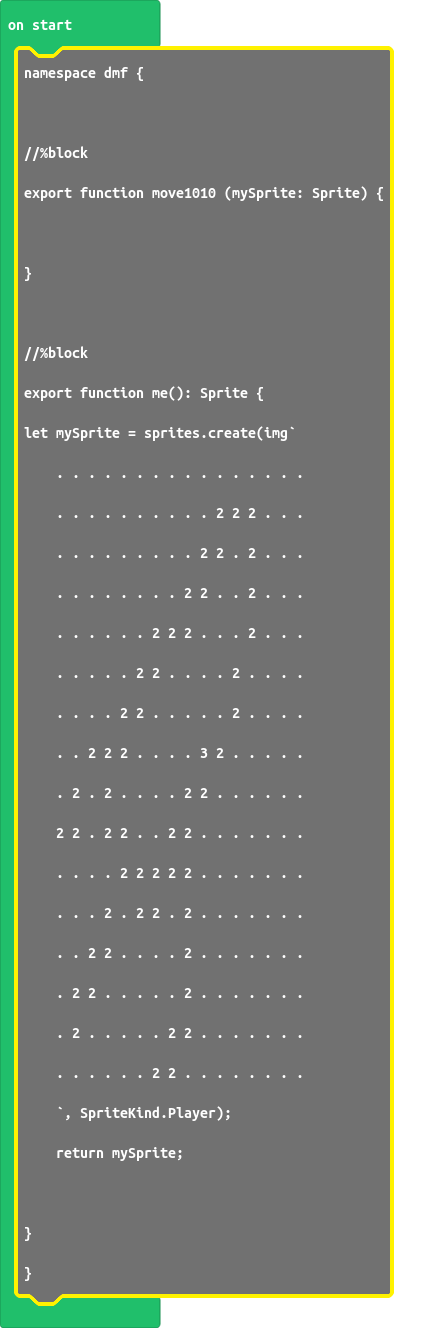
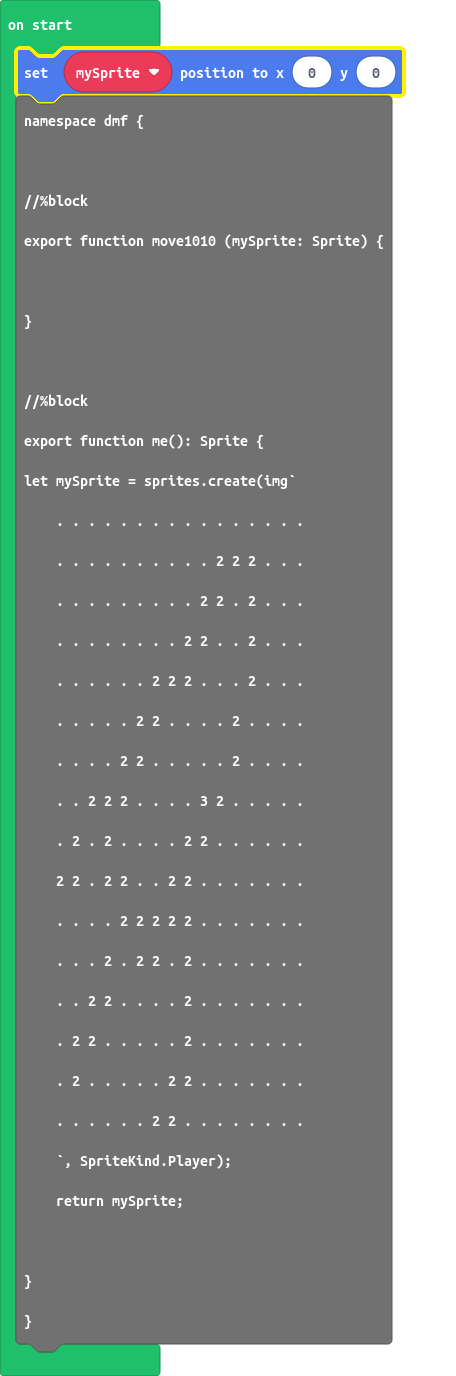
Update main.blocks, main.ts

diff --git a/main.ts b/main.ts
@@ -1,8 +1,10 @@
+
+
 namespace dmf {
 
 //%block
 export function move1010 (mySprite: Sprite) {
-	
+	mySprite.setPosition(0, 0)
 }
 
 //%block
